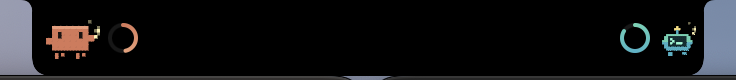
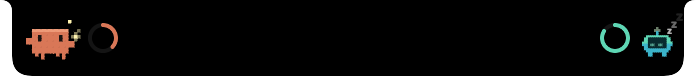
Prepare the repo for others: README, MIT license, CI, fresh screenshots
- Rewrite the README for the rings design: install, requirements, data sources,
  privacy, development, disclaimer
- MIT license; GitHub Actions runs swift build and swift test on macOS
- Screenshots rendered from the app with a transparent background
- Stop tracking the personal NOTES.md handoff

Claude-Session: https://claude.ai/code/session_01N9VLaA3DxriVKNtEfe4Jez

Changed region(s): [[0.0, 0.0, 1.0, 1.0]]

diff --git a/Sources/Claudex/AppDelegate.swift b/Sources/Claudex/AppDelegate.swift
@@ -128,19 +128,25 @@ final class AppDelegate: NSObject, NSApplicationDelegate {
         if status == .enabled || status == .requiresApproval { UserDefaults.standard.set(true, forKey: key) }
     }
 
-    /// Development aid: renders the expanded card to a PNG a few seconds after launch
-    /// (once data has loaded), then quits. Needs no screen-recording permission.
+    /// Development aid: renders the widget to a PNG a few seconds after launch (once data
+    /// has loaded), then quits. Needs no screen-recording permission. The background is
+    /// transparent and the image is cropped to the notch shape. Set
+    /// `CLAUDEX_SNAPSHOT_STATE=collapsed` for the collapsed pill.
     private func snapshot(to path: String) {
-        model.isExpanded = true
+        let collapsed = ProcessInfo.processInfo.environment["CLAUDEX_SNAPSHOT_STATE"] == "collapsed"
+        model.isSnapshot = true
+        model.isExpanded = !collapsed
         DispatchQueue.main.asyncAfter(deadline: .now() + 4) { [model] in
             MainActor.assumeIsolated {
-                let size = model.layout.panelSize
-                let view = RootView(model: model, onToggle: {})
-                    .frame(width: size.width, height: size.height)
-                    .background(Color(white: 0.16))
-                let renderer = ImageRenderer(content: view)
+                let layout = model.layout
+                let panel = layout.panelSize
+                let shape = layout.shapeSize(expanded: !collapsed, liveLines: model.liveLines)
+                let renderer = ImageRenderer(content: RootView(model: model, onToggle: {})
+                    .frame(width: panel.width, height: panel.height))
                 renderer.scale = 2
-                if let image = renderer.cgImage {
+                let crop = CGRect(x: (panel.width - shape.width) / 2 * 2, y: 0,
+                                  width: shape.width * 2, height: shape.height * 2)
+                if let image = renderer.cgImage?.cropping(to: crop) {
                     let rep = NSBitmapImageRep(cgImage: image)
                     try? rep.representation(using: .png, properties: [:])?.write(to: URL(fileURLWithPath: path))
                 }

diff --git a/Sources/Claudex/Views/RootView.swift b/Sources/Claudex/Views/RootView.swift
@@ -69,7 +69,12 @@ struct RootView: View {
                     .font(Theme.mono(10.5, .medium))
                     .foregroundStyle(Theme.tertiaryText)
                 Spacer()
-                GearButton(model: model)
+                if model.isSnapshot {
+                    // ImageRenderer cannot draw a Menu; show its icon as it looks on screen.
+                    Image(systemName: "gearshape.fill").font(.system(size: 10, weight: .semibold)).opacity(0.4)
+                } else {
+                    GearButton(model: model)
+                }
             }
             .padding(.horizontal, NotchShape.expandedTop + 12)
             .frame(height: layout.notchHeight)

diff --git a/Sources/Claudex/AppModel.swift b/Sources/Claudex/AppModel.swift
@@ -15,6 +15,8 @@ final class AppModel {
         }
     }
     var layout = NotchLayout.fallback
+    /// True while rendering README screenshots (`CLAUDEX_SNAPSHOT`).
+    @ObservationIgnored var isSnapshot = false
 
     /// Lines needed by the taller "Live now" list; sizes the expanded card.
     var liveLines: Int { NotchLayout.liveLines(for: [claude.live.count, codex.live.count]) }

diff --git a/README.md b/README.md
@@ -1,89 +1,111 @@
 # Claudex
 
-A tiny macOS widget that lives under the camera notch and shows how much **Claude** and **Codex** usage you have left.
+[![Tests](https://github.com/Wasif-Karim03/Claudex_Widget/actions/workflows/tests.yml/badge.svg)](https://github.com/Wasif-Karim03/Claudex_Widget/actions/workflows/tests.yml)
 
-Collapsed, it is a notch-black pill with two little pixel mascots and progress rings either side of the camera. Hover it and it springs open into a card showing, for each tool:
-
-- **% left** in each rate-limit window (Claude: 5-hour and weekly; Codex: whatever windows the CLI reports), as animated capsule bars
-- **reset countdown** for each window
-- **plan** (e.g. Max, Pro)
-- **current model**: the model of the most recently active session (e.g. Opus 5.5, GPT-6.1 Sol)
-- **Live now**: every session whose log changed in the last ~2 minutes, with its model and project, including Claude Code subagents (marked *subagent*). The top three are listed, then "+N more".
-
-### The mascots
-
-Claude is the blocky orange pixel critter from Claude Code; Codex is a mint pixel robot with an antenna and a `>_` screen face. They react to what is happening:
-
-- **working** (a session is writing): they bounce, step their legs, tap their arms, throw little typing sparkles, and Codex's antenna light blinks
-- **idle**: slow breathing and the occasional blink
-- **asleep** (nothing for over 10 minutes): eyes closed, floating "z"
-- **worried** (any window over 80% used): sweat drop, redder tint and a nervous wiggle
-
-They animate in the collapsed pill too. With *Reduce Motion* on, they hold still.
-
-## Screenshots
-
-Collapsed:
-
-![Collapsed pill](docs/screenshots/collapsed.png)
-
-Expanded:
+A small macOS widget that lives under the camera notch and shows how much of your **Claude** and **Codex** usage limits you have used, with two animated pixel mascots.
 
 ![Expanded card](docs/screenshots/expanded.png)
 
+Collapsed, it blends into the notch with a mascot and a ring on each side of the camera:
+
+![Collapsed pill](docs/screenshots/collapsed.png)
+
+Hover over it to open the card. For each tool it shows:
+
+- **Usage rings**, one per limit, filled by % used. Claude shows the session (5-hour) window, the weekly window, and any per-model weekly limit such as *Fable week*. Codex shows whatever windows the CLI reports. The numbers match Claude Code's `/usage`.
+- **When each limit resets**
+- **Your plan** (e.g. Max, Pro) and the **model** of your most recent session
+- **Live sessions**: every session written to in the last two minutes, with its project and model. Claude Code subagents are shown indented under the sessions.
+
+Rings turn red above 80% used.
+
+### The mascots
+
+Claude is a blocky orange critter and Codex a teal robot. They react to what you're doing:
+
+- **Working** (a session is writing): they bounce and throw little typing sparkles
+- **Idle**: slow breathing and the occasional blink
+- **Asleep** (nothing for over 10 minutes): eyes closed, floating z's
+- **Worried** (a limit over 80% used): a nervous wiggle
+
+With *Reduce Motion* on, they hold still.
+
 ## Requirements
 
-- macOS 14 or later (Apple silicon)
-- Swift 6 toolchain (Xcode 16 or later)
-- [Claude Code](https://claude.com/claude-code) installed and signed in (Claudex reads its login from the keychain)
-- The Codex CLI used at least once, so `~/.codex/sessions` has a session log
+- An Apple silicon Mac running macOS 14 or later. It works best on a MacBook with a notch; on other displays it sits at the top centre of the screen.
+- Xcode 16 or later, or another Swift 6 toolchain, to build it
+- [Claude Code](https://claude.com/claude-code) installed and signed in. Claudex reads Claude Code's login from your keychain to fetch usage.
+- For Codex: the [Codex CLI](https://github.com/openai/codex), used at least once
 
-## Build and run
+You can use just one of the two. The other side shows that it has nothing to report.
+
+## Install
 
 ```sh
-# Run straight from the package
-swift run Claudex
-
-# Or build a signed app bundle
-scripts/bundle.sh && open build/Claudex.app
+git clone https://github.com/Wasif-Karim03/Claudex_Widget.git
+cd Claudex_Widget
+./scripts/install.sh
 ```
 
-`scripts/bundle.sh` builds a release binary and wraps it in `build/Claudex.app` (ad-hoc signed, `LSUIElement`, so there is no Dock icon).
+The script builds a release version, copies `Claudex.app` to `/Applications` and opens it. The first time it runs from there, it adds itself to **Login Items**, so it starts with your Mac. To turn that off, use **Launch at Login** in the gear menu or System Settings › General › Login Items. Once you turn it off, it stays off.
 
-**Launch at Login**: move `Claudex.app` to `/Applications` first, then turn on *Launch at Login* from the gear menu (or right-click the widget). macOS may ask you to approve it in System Settings › General › Login Items. The toggle is disabled when running via `swift run`.
+Claudex reads the token with macOS's built-in `security` tool, so the first time it may show a keychain prompt asking to let `security` access *Claude Code-credentials*. Choose **Always Allow**.
 
-The gear menu and the right-click menu also have **Refresh** and **Quit**.
+To update, pull and run `./scripts/install.sh` again. To uninstall, quit Claudex from the gear menu, remove it from Login Items and delete `/Applications/Claudex.app`.
+
+The gear menu, or a right-click on the widget, has **Refresh**, **Launch at Login** and **Quit**.
 
 ## Where the data comes from
 
 | | Source |
 | --- | --- |
-| Claude usage | `GET https://api.anthropic.com/api/oauth/usage` with Claude Code's OAuth token |
-| Claude plan | `subscriptionType` in Claude Code's keychain entry, if present |
-| Claude sessions, models, activity | transcripts at `~/.claude/projects/<project>/*.jsonl` and subagent logs at `~/.claude/projects/<project>/<session>/subagents/agent-*.jsonl`; project name from the transcript's `cwd` (or, failing that, the decoded folder name) |
-| Codex usage, plan, sessions, models | rollouts at `~/.codex/sessions/YYYY/MM/DD/rollout-*.jsonl`; project name from the session's `cwd` |
+| Claude usage | `GET https://api.anthropic.com/api/oauth/usage` with Claude Code's sign-in token |
+| Claude plan | Claude Code's keychain entry |
+| Claude sessions and models | Claude Code's transcripts in `~/.claude/projects/` (including subagent logs) |
+| Codex usage, plan, sessions and models | Codex's session logs in `~/.codex/sessions/` |
 
-Both log directories are only ever read, never written.
+The Claude usage endpoint is the one Claude Code itself uses. It is not a documented public API, so it may change without notice.
 
 ## Privacy
 
-- The Claude OAuth token is read with `/usr/bin/security find-generic-password -s "Claude Code-credentials" -w` **fresh on every poll**. It is held in memory only for that request, sent only to `api.anthropic.com`, and never stored, cached, logged or written to disk or UserDefaults.
-- The first read may show a one-time keychain prompt asking to let `security` access the item; choose *Always Allow* to avoid repeats.
-- Claudex never refreshes the token. If it has expired, the card shows *Sign in to Claude Code*; using Claude Code once refreshes it.
-- Nothing is sent anywhere else. There are no analytics.
-- When decoding project folder names, Claudex never lists privacy-protected folders (Desktop, Documents, Downloads, media folders, Library, external volumes), so it does not trigger macOS folder-access prompts.
+- The Claude sign-in token is read from the keychain fresh for each request. It is sent only to `api.anthropic.com`, and is never stored, cached, logged or written to disk.
+- Claudex never refreshes the token. If it has expired, the card asks you to sign in to Claude Code; using Claude Code once fixes it.
+- Session logs are only read, never written. Only the last 64 KB of each live log is read.
+- Nothing else leaves your Mac. There are no analytics.
+- Claudex never lists privacy-protected folders such as Desktop, Documents or Downloads, so it won't trigger macOS folder-access prompts.
 
-## Polling
+## How often it updates
 
-- **Claude usage**: every 60 seconds. On rate limiting (429), server errors or network failures it backs off, doubling up to 15 minutes (and honours `Retry-After`); it drops back to 60 seconds after a success. When sign-in is needed it checks every 5 minutes. Manual refresh never polls more often than once a minute.
-- **Local session logs**: every 3 seconds, Claudex checks file dates only (no reading) to find live sessions. It parses only the live logs and the newest one, only when they have changed, and reads only their last 64 KB. For a Codex log whose model or folder isn't in that tail, it also reads the first 64 KB.
-- If a fetch fails after a success, the last numbers stay on screen marked *stale*.
+- **Claude usage**: once a minute. On errors or rate limiting it backs off, up to 15 minutes, and honours `Retry-After`.
+- **Session logs**: checked every 3 seconds by modification date. A log is parsed only when it has changed.
+- If an update fails, the last numbers stay on screen, dimmed and marked with how old they are.
 
 ## Development
 
 ```sh
 swift build
-swift test
+swift test                                    # core logic: parsing, usage client, formatting
+./scripts/bundle.sh && open build/Claudex.app # run a local build without installing
 ```
 
-`ClaudexCore` (models, parsing, the usage client) is Foundation-only and covered by tests; the `Claudex` executable holds the AppKit panel and SwiftUI views.
+The code is split into two parts:
+
+- `ClaudexCore` holds the models, log parsing and usage client. It uses only Foundation and has the tests.
+- `Claudex` is the app: an AppKit panel with SwiftUI views.
+
+To render the widget to a PNG without screen-recording permission (this is how the screenshots above were made):
+
+```sh
+CLAUDEX_PIN_EXPANDED=1 CLAUDEX_SNAPSHOT=card.png .build/debug/Claudex
+CLAUDEX_PIN_EXPANDED=1 CLAUDEX_SNAPSHOT_STATE=collapsed CLAUDEX_SNAPSHOT=pill.png .build/debug/Claudex
+```
+
+Issues and pull requests are welcome.
+
+## Disclaimer
+
+Claudex is an independent project. It is not affiliated with or endorsed by Anthropic or OpenAI. Claude is a trademark of Anthropic; Codex is a trademark of OpenAI.
+
+## License
+
+[MIT](LICENSE)
